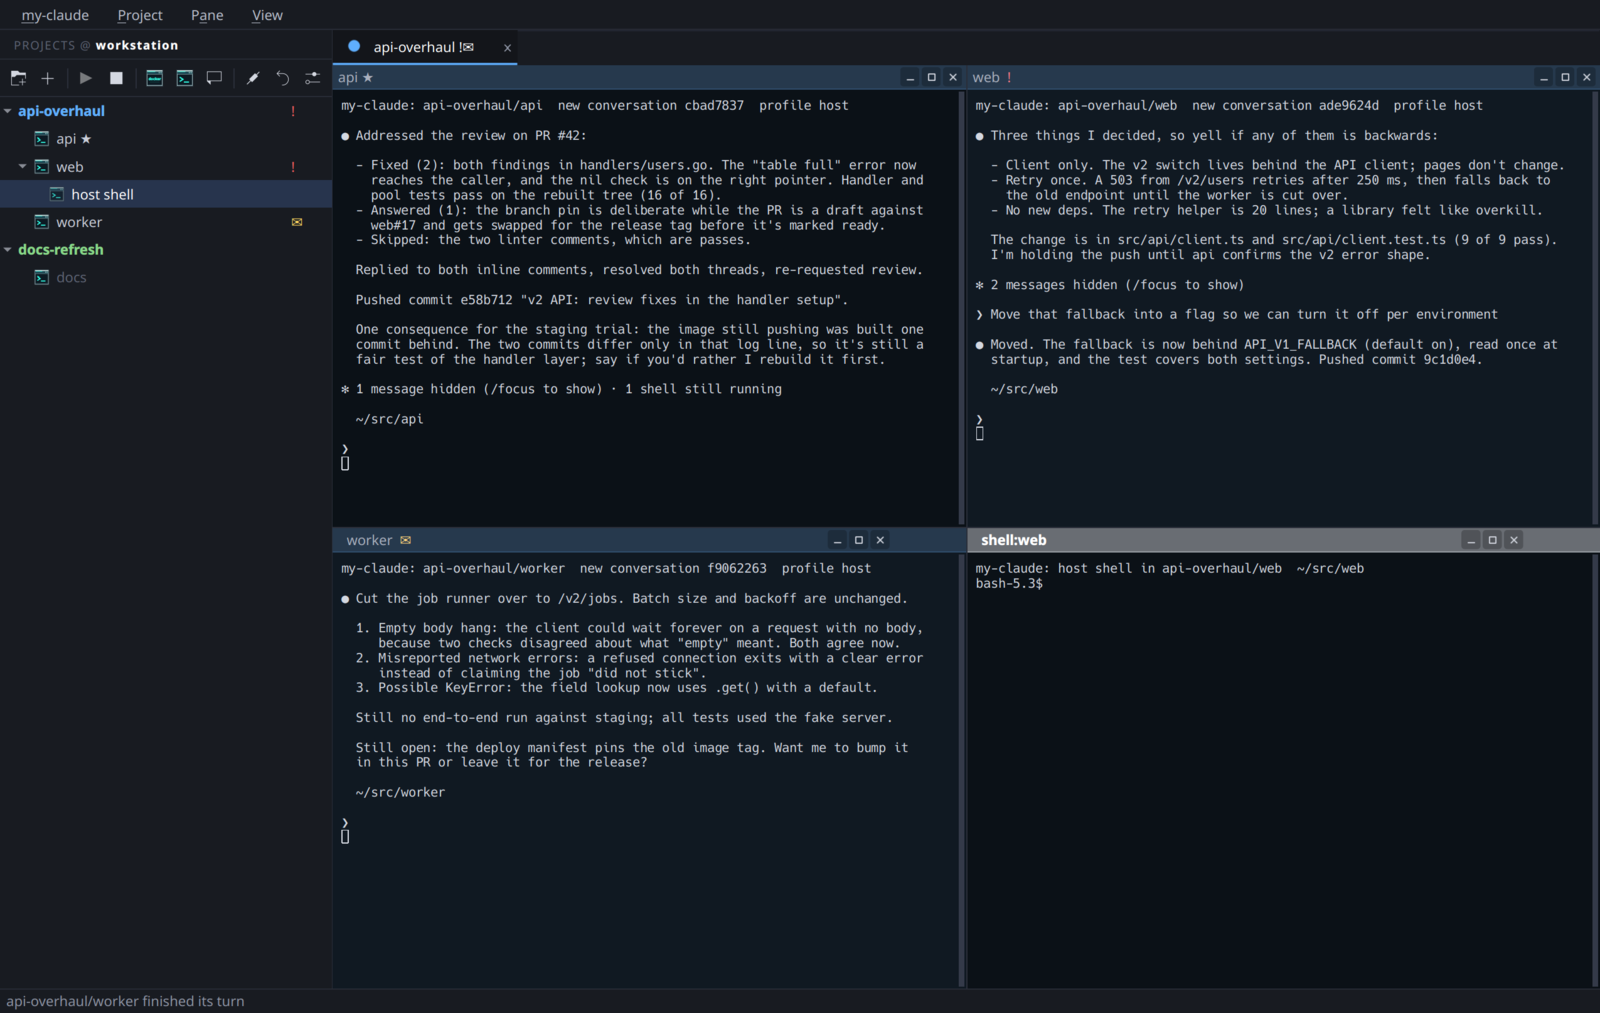
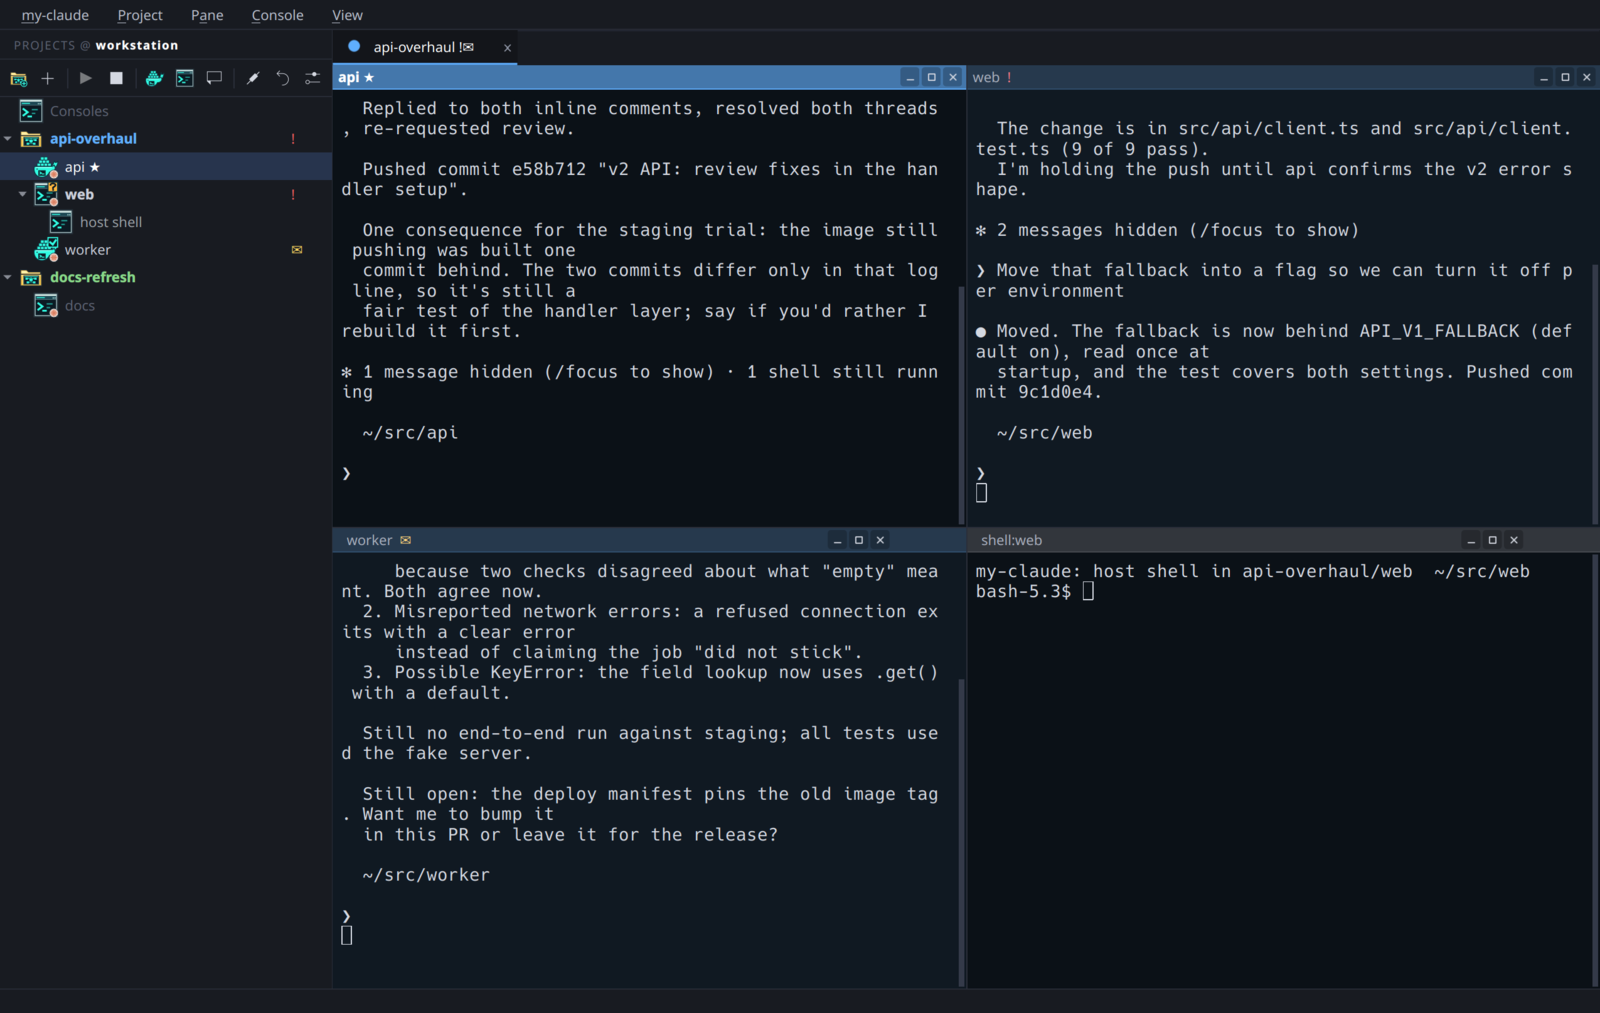
README previews from the UI-test sandbox, with agent states and docker agents
tests/gui-demo.sh docs drives the same sandbox the window tests use (mock projects
and a fake claude) and rewrites docs/gui.png and docs/overview.png. The demo shows
every agent state: api is working (its frames animate), web is asking, and worker
is done. The states are written again just before each shot, because a finished
turn counts as read once its pane has the keyboard.

A sandbox has no docker, so a running agent never sits in a docker cgroup and
every agent drew the console icon. MY_CLAUDE_TEST_BOXED names checkouts to show
as containerized, so the demo shows api and worker as whales and web on the host.

CLAUDE.md now has the rule: a change to what the window or the terminal UI shows
refreshes its README pictures from the sandbox in the same commit.

diff --git a/src/core.ts b/src/core.ts
@@ -865,6 +865,9 @@ export async function ls(): Promise<ProjectRow[]> {
 // scan of /proc for all of them (status() per project would scan it once per peer).
 export interface PeerSnap extends Peer { state: PeerState; pane: string | null; attn: Attention; boxed: boolean | null } // boxed: its claude runs in a container (null: not running)
 export interface ProjectSnap { project: Project; up: boolean; state: ProjectState; color: string; attn: Attention; peers: PeerSnap[]; panes: tmux.PaneRow[] }
+// Demos and tests have no docker: MY_CLAUDE_TEST_BOXED lists checkouts (":"-separated) to show as in one.
+const demoBoxed = (path: string) => (process.env.MY_CLAUDE_TEST_BOXED ?? "").split(":").includes(path);
+
 export async function snapshot(): Promise<ProjectSnap[]> {
   const pidOf = occupantsIndex();
   const now = Math.floor(Date.now() / 1000);
@@ -875,7 +878,7 @@ export async function snapshot(): Promise<ProjectSnap[]> {
     const peers: PeerSnap[] = p.peers.map((peer) => {
       const pane = tmux.peerPane(rows, peer.repo);
       const pid = pidOf(peer.path, whoOf(p, peer));
-      return { ...peer, state: peerStateOf(pane ? Math.max(0, now - pane.start) : null, pid), pane: pane?.id ?? null, attn: attention(p.name, peer.repo), boxed: pid ? !!containerOf(pid) : null };
+      return { ...peer, state: peerStateOf(pane ? Math.max(0, now - pane.start) : null, pid), pane: pane?.id ?? null, attn: attention(p.name, peer.repo), boxed: pid ? !!containerOf(pid) || demoBoxed(peer.path) : null };
     });
     // a busy screen says "work" too: Claudes launched before the hooks wrote it never will
     const busy = await tmux.busy(peers.filter((x) => x.pane && x.state === "live").map((x) => x.pane as string));

diff --git a/README.md b/README.md
@@ -48,7 +48,7 @@ back on the same conversations after the containers, tmux or the machine itself 
 
 <p align="center">
   <img src="docs/gui.png" alt="the native window: a project as a tab, four peers and a shell as panes, the project tree on the left">
-  <br><sub>The native window: <code>api-overhaul</code> is a tab, each repo's Claude a pane, a host shell on <code>web</code> beside them. The list groups the projects by machine, with the operations over it; ! asks for you, ✉ has finished its turn.</sub>
+  <br><sub>The native window: <code>api-overhaul</code> is a tab, each repo's Claude a pane, a host shell on <code>web</code> beside them. The list groups the projects by machine, with the operations over it. Each agent's icon says where it runs (the whale: in a container; the terminal: on the host) and what it is doing: <code>api</code>'s animates while it works, <code>web</code>'s asks for you (bold), <code>worker</code>'s has finished its turn.</sub>
 </p>
 
 And the same projects in tmux, for when a terminal is all there is:

diff --git a/CLAUDE.md b/CLAUDE.md
@@ -11,5 +11,9 @@
   form's `table` and `picker` formats: `columns`, `enumRows`, `sort`). Dates as
   `YYYY-MM-DD HH:MM`, so they sort as text.
 - Comments: one or two lines, why not what; history goes in the commit message.
+- **The README's pictures come from the sandbox the UI tests use**, never from a real
+  machine. A change to what the window shows refreshes them in the same commit:
+  `tests/gui-demo.sh docs` (docs/gui.png, docs/overview.png); a change to the terminal UI:
+  `tests/demo.sh` (docs/demo/*.gif, docs/screenshot.png).
 - Nothing specific to one employer or person in this public repo: their profiles live in
   ~/.config/my-claude/profiles/.
